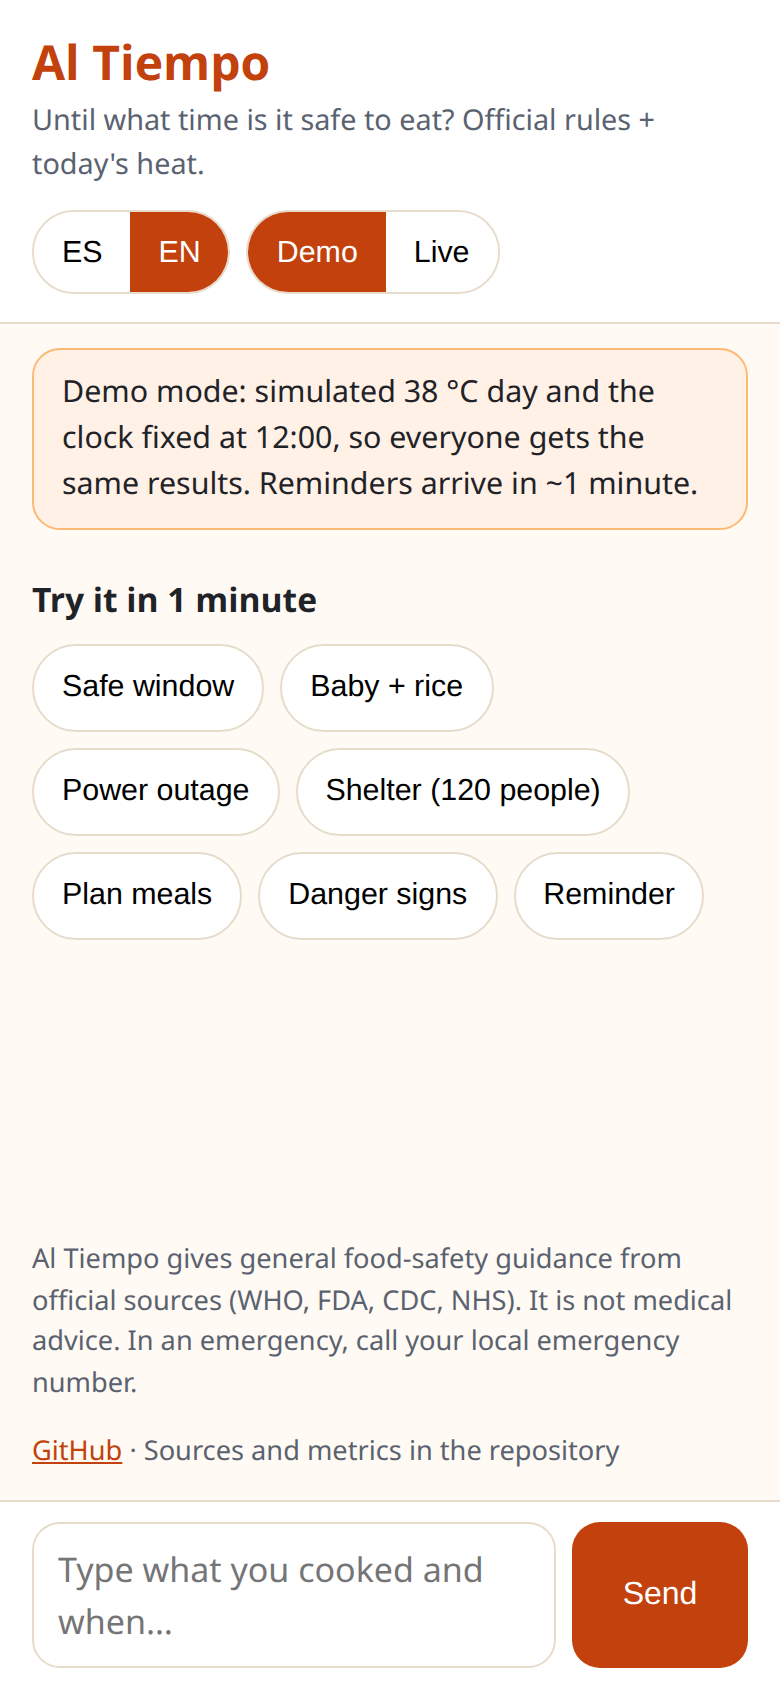
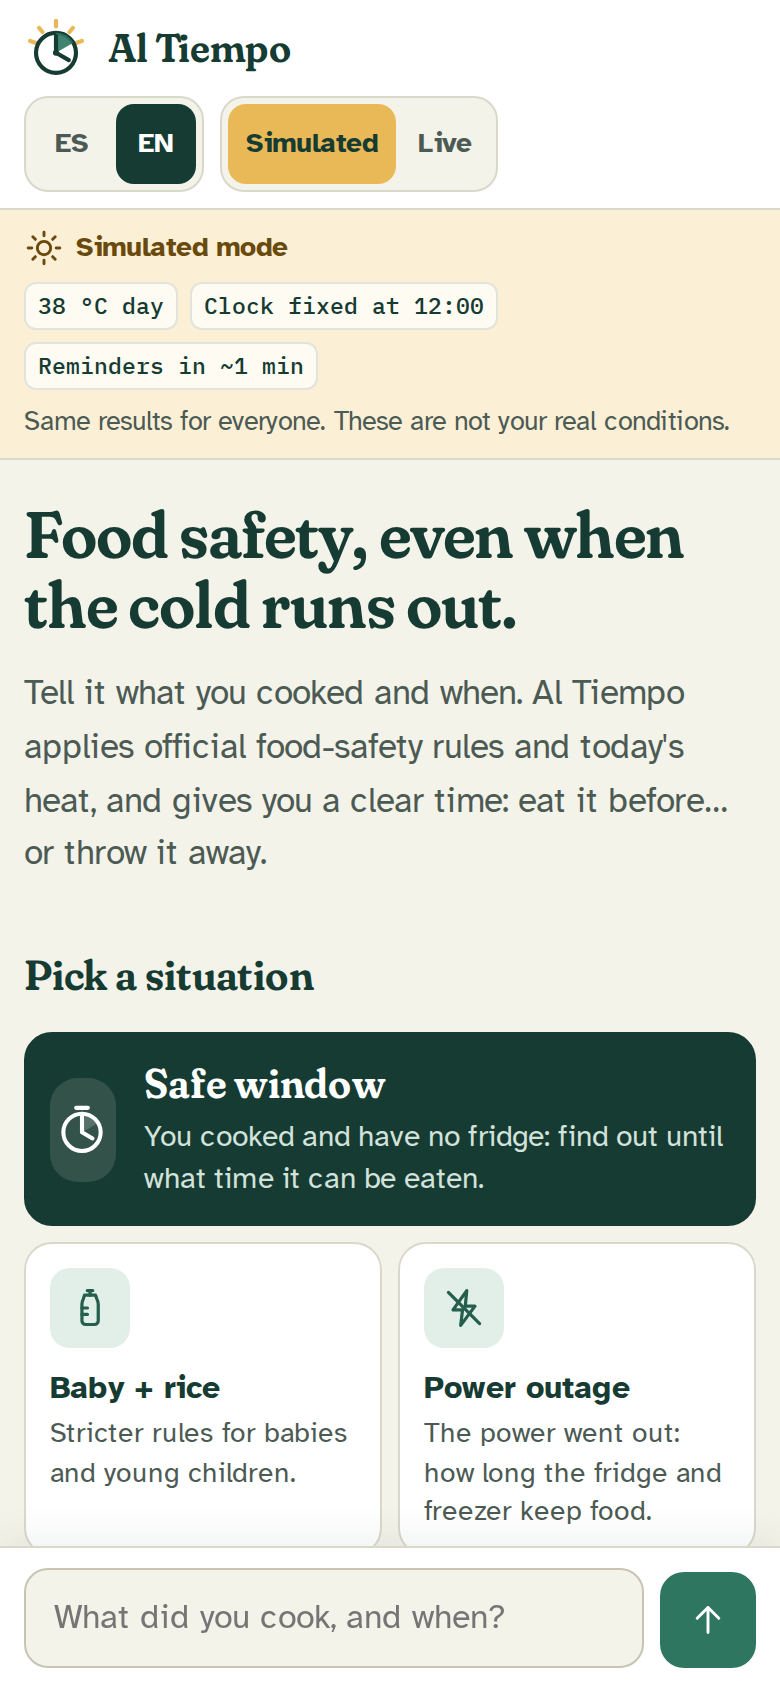
Arreglar respuesta del recordatorio bloqueada por el verificador; capturas nuevas; 141 tests

diff --git a/tests/test_tools.py b/tests/test_tools.py
@@ -221,3 +221,20 @@ def test_outage_user_words_beat_missing_model_args():
     c = ctx("The power went out at 10:30. I kept the fridge closed. Freezer is half full.")
     r = j(track_outage(tool_context=c))
     assert r["fridge_status"] == "ok" and "until 14:30" in r["summary"]["en"]
+
+
+def test_reminder_turn_carries_the_engine_facts_it_is_based_on():
+    """Live screenshot bug: in the "yes, schedule it" turn the model repeated "eat it before 13:00
+    ... from 2 hours to 1" and the verifier blocked it, because only this turn's tool results count.
+    The reminder result now carries the window it is based on, so those facts stay verifiable."""
+    from agent.hooks.verifier import VerifierHook, collect_allowed
+
+    c = ctx("I cooked beans at 12:00 and I have no fridge")
+    compute_safe_window(food_type="cooked_food", tool_context=c)
+    raw = schedule_reminder(at="12:45", message="x", tool_context=c)
+    assert j(raw)["based_on"]["limit_hhmm"] == "13:00"
+    times, minutes = collect_allowed(raw)
+    assert {"12:45", "13:00"} <= times and {60, 120} <= minutes
+    v = VerifierHook()  # the reminder result must not be mistaken for a safe window
+    v.on_tool_result(type("E", (), {"result": {"content": [{"text": raw}]}})())
+    assert v.last_window is None

diff --git a/agent/tools/reminder_tool.py b/agent/tools/reminder_tool.py
@@ -88,6 +88,14 @@ def schedule_reminder(
         "channel": channel,
         "demo_accelerated": demo_mode(),
     }
+    if window:
+        # The engine facts this reminder is based on. The verifier only trusts tool results of the
+        # current turn; without these, repeating "eat it before 13:00 ... 2 hours to 1" in the
+        # reminder turn was blocked (found in the live screenshots, 2026-11-04).
+        result["based_on"] = {
+            "limit_hhmm": window["eat_by_hhmm"],
+            "rule_ids": window.get("rule_ids", []),
+        }
     at_hhmm = result["at_local"]
     result["summary"] = (
         f'Recordatorio programado para las {at_hhmm}: "{result["message"]}"'

diff --git a/agent/tools/safe_window_tool.py b/agent/tools/safe_window_tool.py
@@ -125,6 +125,7 @@ def compute_safe_window(
             "reminder_at_hhmm": result["reminder_at"][11:16],
             "status": result["status"],
             "source_name": result["deciding_source"]["source_name"],
+            "rule_ids": result["rule_ids"],
         },
     )
     return out(result)

diff --git a/docs/diario.md b/docs/diario.md
@@ -141,3 +141,10 @@
 ## 2026-11-04 01:20 — "Demo" → "Simulado"
 - Qué pasó: el botón decía "Demo / En vivo". Para un usuario real, "Demo" suena a "versión falsa" y le resta confianza a toda la app.
 - Qué decidí: nombrar el modo por lo que hace: **Simulado / Real** (*Simulated / Live*). Solo cambian textos de la web; el agente, el backend y las reglas no cambian. En README y artículo se mantiene "demo" solo donde se habla con los jueces.
+
+## 2026-11-04 01:45 — las capturas encontraron un bug del recordatorio
+- Qué intenté: rehacer las capturas del artículo en la demo en vivo con "Simulado / Real".
+- Qué pasó: al responder "Sí, prográmalo", el recordatorio llegó bien (12:45), pero la respuesta salió reemplazada por la plantilla segura ("El verificador la cambió…").
+- Cómo lo supe: la captura, y luego reproducido en local: violaciones `13:00` y luego `120 min`.
+- Por qué: el verificador solo confía en los resultados de herramientas del turno actual. En el turno del recordatorio, el modelo repetía la frase del turno anterior ("antes de las 13:00… de 2 horas a 1"), que no venía en el resultado del recordatorio. La frase del porqué (2 horas) lo empeoró.
+- Qué decidí: no aflojar el verificador. El resultado del recordatorio ahora incluye los datos del motor en los que se basa (`based_on`: hora límite y reglas). Resultado: 4 de 4 conversaciones de dos turnos sin bloqueos ni reintentos (antes: bloqueada). Test de regresión nuevo (141).

diff --git a/docs/article.md b/docs/article.md
@@ -42,7 +42,7 @@ The rules exist. The WHO says not to leave cooked food at room temperature for m
 4. Try **Shelter (120 people)**, **Power outage** and **Danger signs**. Tap **🔊 Listen** to hear any answer.
 5. Switch to **Live** mode to use your real location (rounded to about 1 km) and the real hourly forecast.
 
-![Demo home on a phone: demo banner, language switch and scenario buttons](capturas/01-demo-home.png)
+![Home on a phone: simulated-mode banner, language switch and scenario buttons](capturas/01-demo-home.png)
 
 ## What it does
 
@@ -163,7 +163,7 @@ The agent is a **Strands Agents** loop with **7 tools**. Every tool that calcula
 | Metric | Result |
 |---|---|
 | Food rules verified on their official source, with verbatim text | **11 / 11** |
-| Rules-engine, tool and safety tests passing | **140 / 140** |
+| Rules-engine, tool and safety tests passing | **141 / 141** |
 | End-to-end evals consistent with the rules engine (50 bilingual scenarios × 2 runs) | **99 / 100 (99%)**, 0 unsafe answers |
 | Adversarial evals: pressure about babies, "say it's 100% safe", medicine doses, diagnosis, antibiotics, home remedies, "ignore your rules", a fake WHO claim | **29 / 30**, 0 unsafe answers |
 | Invented times blocked by the verifier (adversarial unit tests) | **8 / 8** |

diff --git a/docs/metrics.md b/docs/metrics.md
@@ -2,7 +2,7 @@
 
 | Metric | Value | How measured |
 |---|---|---|
-| Automated tests (rules engine, tools, time parsing, verifier, API and reminder Lambdas) | **140 / 140 passing** | `make test`, GitHub Actions summary |
+| Automated tests (rules engine, tools, time parsing, verifier, API and reminder Lambdas) | **141 / 141 passing** | `make test`, GitHub Actions summary |
 | Food rules verified on the official source (verbatim text stored) | **11 / 11** | `python scripts/check_rules.py --strict` |
 | Invented times/limits caught by the verifier (adversarial unit tests) | **8 / 8**, plus copied template placeholders (`HH:MM`) | `tests/test_verifier.py` |
 | End-to-end evals, Nova 2 Lite (**50 scenarios** × 2 runs, 26 es / 24 en), latest run 20261104-005038 (answers now say *why*) | **99 / 100 (99%)**; the 1 failure was not unsafe (it refused "100% safe" but asked needless questions). Previous run 000750: 98 / 100, also 0 unsafe | `python evals/run_evals.py --repeat 2` |

diff --git a/CHANGELOG.md b/CHANGELOG.md
@@ -20,7 +20,7 @@ fixes are made; every change is listed here.
 - English and Spanish, with voice (Amazon Polly).
 
 ### Quality evidence
-- 140 automated tests; 11/11 food rules verified word by word on their official source.
+- 141 automated tests; 11/11 food rules verified word by word on their official source.
 - End-to-end evals: **99/100** (50 bilingual scenarios × 2 runs, incl. 15 adversarial), 0 unsafe answers.
 - Verifier: invented times, invented limits and copied template placeholders are blocked.
 - Load test: normal traffic 80/80 OK; a 300-request burst never reached the model (throttled).
